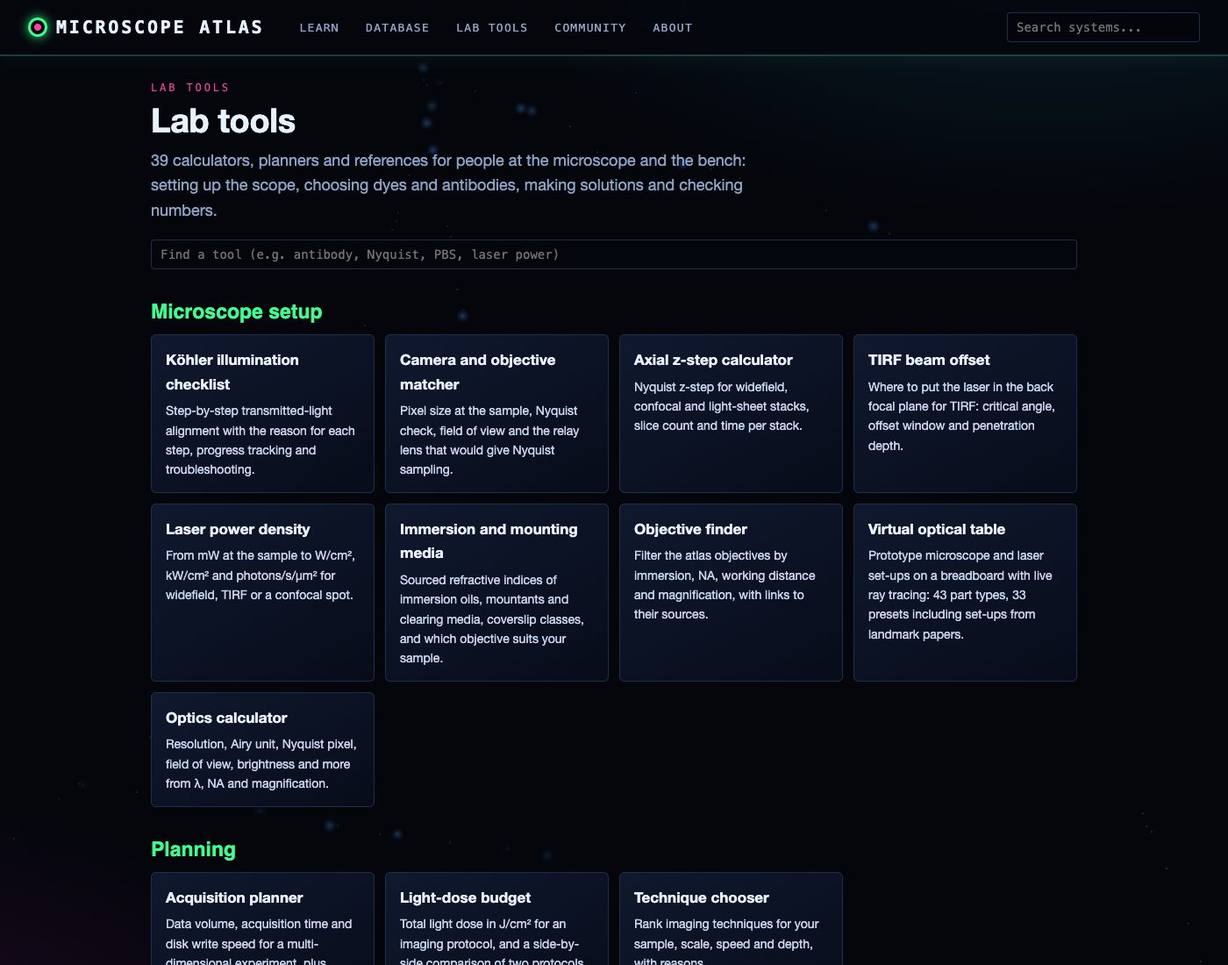
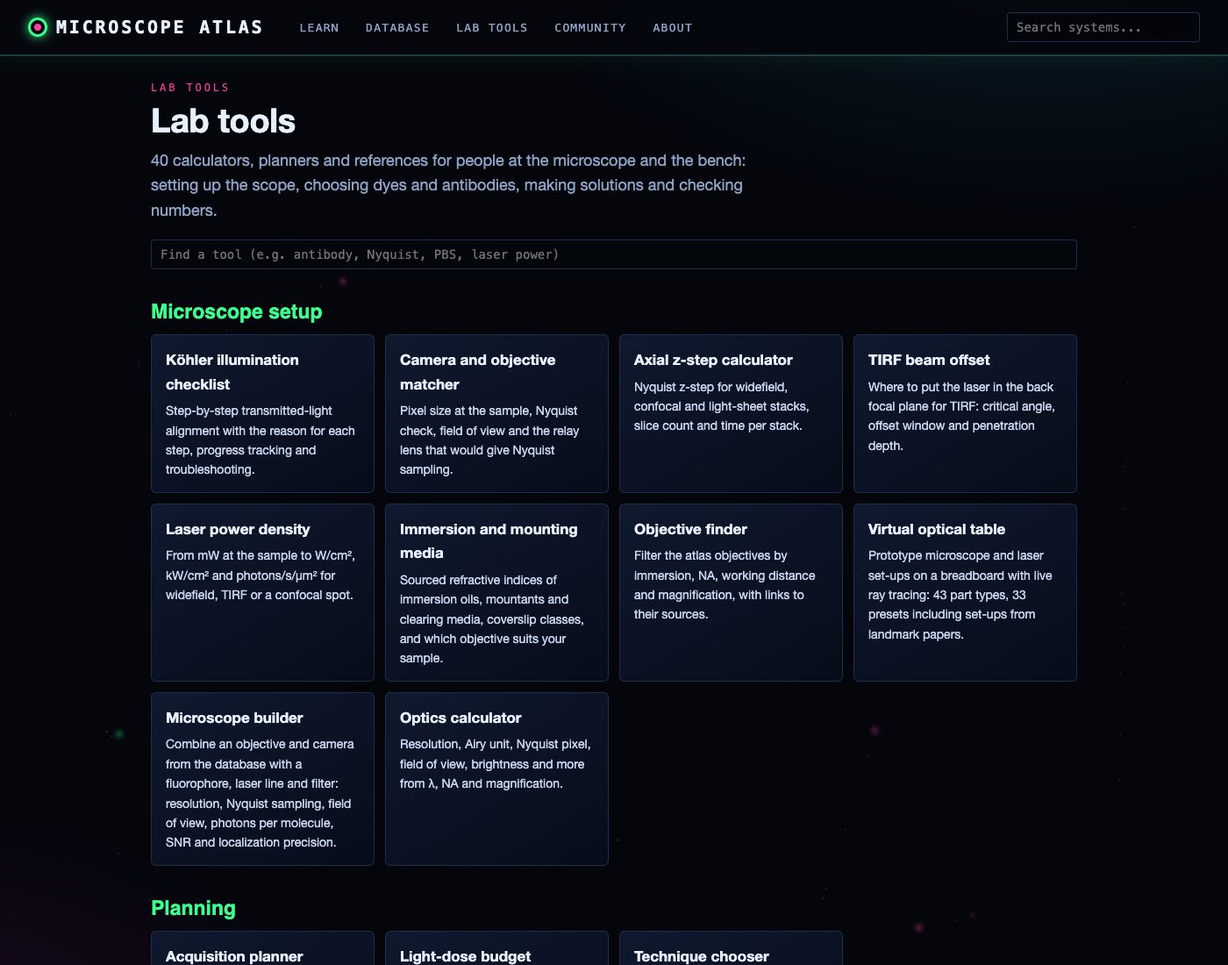
R5: microscope builder with database objectives and cameras, FPbase fluorophores and a tested photon budget

Changed region(s): [[0.1229, 0.7109, 0.7064, 1.0]]

diff --git a/atlas/web/static/builder.js b/atlas/web/static/builder.js
@@ -1,0 +1,91 @@
+// Microscope builder (#/builder): pick an objective and camera from the database, a fluorophore with a measured
+// spectrum, a laser line and an emission band; get resolution, sampling, field of view, photon budget and SNR.
+import { route, app, api, esc } from './core.js';
+import { layout, addSlider, setReadout, linePlot, div, fmt } from './sim_ui.js';
+import { parseObjective, parseCamera, report } from './builder_calc.js';
+
+const LINES = [405, 445, 458, 488, 514, 532, 561, 594, 640, 685, 730];
+const INTRO = 'Choose an objective and a camera from the components database, a fluorophore with a measured spectrum (FPbase), a laser line and an emission band. The builder works out what the combination can do: resolution, pixel size at the sample against Nyquist, field of view, and a photon budget for one molecule in widefield illumination, from laser power to photoelectrons, with the SNR and localization precision that follow.';
+
+route('builder', async () => {
+  app().innerHTML = '<p class="kicker"><a href="#/lab">Lab tools</a></p><h1>Microscope builder</h1><div id="mb"><p class="mute">Loading components…</p></div>';
+  const [objs, cams, spectra] = await Promise.all([api('/components/objectives'), api('/components/detectors'), api('/spectra')]);
+  const O = objs.map(parseObjective).filter(Boolean), C = cams.map(parseCamera).filter(Boolean), names = Object.keys(spectra).sort();
+  const { controls, view, readout } = layout(app().querySelector('#mb'), INTRO);
+  const st = { obj: 'nikon-cfi-apo-tirf-60xc-oil', cam: 'photometrics-prime-bsi-express', extra: 1, fl: names.includes('Alexa Fluor 488') ? 'Alexa Fluor 488' : names[0],
+    laser: 488, power: 10, field: 100, lo: 500, hi: 550, T: 90, exp: 100, bg: 10, qe: 80, read: 1.5, fluor: null };
+  const opt = (rows, cur, lab) => rows.map(r => `<option value="${esc(r.id ?? r)}" ${(r.id ?? r) === cur ? 'selected' : ''}>${esc(lab(r))}</option>`).join('');
+  const pick = div(controls);
+  pick.innerHTML = `<label>Objective</label><select id="mb-obj">${opt(O, st.obj, o => `${o.label} (${o.M}×/${o.NA})`)}</select>
+    <label>Camera</label><select id="mb-cam">${opt(C, st.cam, c => `${c.label} (${c.type})`)}</select>
+    <label>Fluorophore (with a measured spectrum)</label><select id="mb-fl">${opt(names, st.fl, n => n)}</select>
+    <label>Laser line</label><select id="mb-laser">${opt(LINES, st.laser, l => l + ' nm')}</select>`;
+  const sliders = div(controls), assumed = div(controls);
+  controls.appendChild(readout);
+  const plot = div(view), groups = ['Optics', 'Sampling and field of view', 'Photon budget (one molecule)', 'Signal'].map(h => { const d = div(view); d.innerHTML = `<h3>${h}</h3>`; return div(d, 'readout'); });
+  const srcNote = div(view);
+
+  function mountSliders() {
+    sliders.innerHTML = '';
+    const S = (id, label, min, max, step, k, unit = '') => addSlider(sliders, { id, label, min, max, step, value: st[k], unit }, v => { st[k] = v; draw(); });
+    S('mb-x', 'Extra magnification (tube lens / relay)', 0.5, 3, 0.05, 'extra', '×');
+    S('mb-p', 'Laser power at the sample', 0.1, 200, 0.1, 'power', ' mW');
+    S('mb-f', 'Illuminated field diameter', 10, 500, 5, 'field', ' µm');
+    S('mb-lo', 'Emission filter from', 400, 800, 1, 'lo', ' nm');
+    S('mb-hi', 'Emission filter to', 400, 850, 1, 'hi', ' nm');
+    S('mb-t', 'Filter and optics transmission', 10, 100, 1, 'T', '%');
+    S('mb-e', 'Exposure time', 1, 1000, 1, 'exp', ' ms');
+    S('mb-b', 'Background', 0, 500, 1, 'bg', ' photons/pixel/frame');
+  }
+  function mountAssumed(cam) {
+    assumed.innerHTML = '';
+    if (cam.qe === null) addSlider(assumed, { id: 'mb-qe', label: 'QE (not stated in the source: your value)', min: 10, max: 100, step: 1, value: st.qe, unit: '%' }, v => { st.qe = v; draw(); });
+    if (cam.read === null) addSlider(assumed, { id: 'mb-rd', label: 'Read noise (not stated in the source)', min: 0, max: 10, step: 0.1, value: st.read, unit: ' e⁻' }, v => { st.read = v; draw(); });
+  }
+  async function setFluor(name, retune) {
+    st.fl = name;
+    const rows = await api('/fluorophores?q=' + encodeURIComponent(name) + '&limit=50');
+    st.fluor = (Array.isArray(rows) ? rows : rows.rows || []).find(r => r.name === name) || null;
+    if (retune && st.fluor) {
+      st.laser = LINES.filter(l => l <= st.fluor.ex + 5).pop() || LINES[0];
+      st.lo = Math.max(st.laser + 10, Math.round(st.fluor.em - 15)); st.hi = st.lo + 50;
+      pick.querySelector('#mb-laser').value = st.laser; mountSliders();
+    }
+    draw();
+  }
+  pick.querySelector('#mb-obj').onchange = e => { st.obj = e.target.value; draw(); };
+  pick.querySelector('#mb-cam').onchange = e => { st.cam = e.target.value; mountAssumed(C.find(c => c.id === st.cam)); draw(); };
+  pick.querySelector('#mb-fl').onchange = e => setFluor(e.target.value, true);
+  pick.querySelector('#mb-laser').onchange = e => { st.laser = +e.target.value; draw(); };
+
+  function draw() {
+    const obj = O.find(o => o.id === st.obj), cam = C.find(c => c.id === st.cam), sp = spectra[st.fl], f = st.fluor;
+    linePlot(plot, [{ pts: sp.ex || [], color: '#4f9dff', dash: '4 3', label: `${st.fl} excitation` }, { pts: sp.em || [], color: '#3dff8f', label: 'emission' },
+      { pts: [[st.laser, 0], [st.laser, 1.02]], color: '#ffd23f', label: `laser ${st.laser} nm` }, { pts: [[st.lo, 0], [st.lo, 1], [st.hi, 1], [st.hi, 0]], color: '#ff3fa4', dash: '3 3', label: `emission filter ${st.lo}-${st.hi} nm` }],
+      { xlabel: 'wavelength (nm)', ylabel: 'relative', xmin: 350, xmax: 850, ymin: 0, ymax: 1.7, H: 240 }); // headroom keeps the legend clear of the curves
+    if (!f || !f.ec || !f.qy || st.hi <= st.lo) {
+      setReadout(readout, [['Photon budget', !f ? 'loading fluorophore…' : st.hi <= st.lo ? 'filter band is empty' : `${st.fl} has no extinction coefficient or quantum yield in FPbase`]]);
+      return;
+    }
+    const r = report({ obj, cam, extraMag: st.extra, qe: cam.qe === null ? st.qe / 100 : null, read: cam.read === null ? st.read : null,
+      fluor: { ec: f.ec, qy: f.qy, lifetime: f.lifetime }, ex: sp.ex || [], em: sp.em || [], laser: st.laser, powerMw: st.power, fieldUm: st.field,
+      lo: st.lo, hi: st.hi, filterT: st.T / 100, exposureMs: st.exp, bgPx: st.bg });
+    const samp = r.pxS <= r.nyq * 1.05 ? 'Nyquist sampled' : r.pxS <= 2 * r.nyq ? 'slightly undersampled' : 'undersampled: add magnification';
+    setReadout(groups[0], [['Total magnification', `${fmt(r.M)}×`], ['Lateral FWHM 0.51λ/NA', `${r.fwhm.toFixed(0)} nm`], ['Rayleigh 0.61λ/NA', `${r.rayleigh.toFixed(0)} nm`],
+      ['Axial 2nλ/NA²', `${r.axial.toFixed(0)} nm`], ['Immersion', `${obj.immersion} (n = ${obj.n})`]]);
+    setReadout(groups[1], [['Pixel at the sample', `${r.pxS.toFixed(0)} nm`], ['Nyquist pixel λ/(4NA)', `${r.nyq.toFixed(0)} nm: ${samp}`],
+      ['Field of view', `${r.fov[0].toFixed(0)} × ${r.fov[1].toFixed(0)} µm${cam.sizeNote ? ` (${cam.sizeNote})` : ''}`], ['', r.fovNote || 'illumination covers the camera field'],
+      ['Frame rate', `${fmt(r.fpsMax)} fps at this exposure${cam.fps ? ` (camera max ${cam.fps})` : ''}`]]);
+    setReadout(groups[2], [['Power density', `${r.kWcm2 < 0.1 ? (r.kWcm2 * 1000).toFixed(1) + ' W/cm²' : r.kWcm2.toFixed(2) + ' kW/cm²'}`],
+      ['Excitation at the laser line', `${(r.relEx * 100).toFixed(0)}% of peak`], ['Excitations per molecule', `${fmt(r.k)} /s (saturation ${(r.sat * 100).toFixed(2)}%)`],
+      ['Emitted photons', `${fmt(r.emit)} /s (QY ${f.qy})`], ['Collected by the objective', `${(r.coll * 100).toFixed(1)}%`], ['Emission inside the filter', `${(r.inBand * 100).toFixed(0)}%`],
+      ['Camera QE', `${(r.qe * 100).toFixed(0)}%${cam.qe === null ? ' (your value)' : ''}`], ['Photons at the camera per exposure', fmt(r.photons)]]);
+    setReadout(groups[3], [['Brightest pixel', `${fmt(r.peakPx)} photons (${(r.frac * 100).toFixed(0)}% of the spot)`], ['Peak-pixel SNR', fmt(r.snrPeak)],
+      ['Localization precision (Thompson; ×√2 for EMCCD)', `${r.locNm.toFixed(1)} nm`], ['Read noise', `${r.read} e⁻${cam.F > 1 ? ' (EM gain, excess noise √2)' : ''}`]]);
+    setReadout(readout, [['Photons per molecule per frame', fmt(r.photons)], ['Pixel / Nyquist', `${r.pxS.toFixed(0)} / ${r.nyq.toFixed(0)} nm`], ['σ localization', `${r.locNm.toFixed(1)} nm`]]);
+    srcNote.innerHTML = `<p class="small mute">Specs from the database entries for the <a href="#/components/objectives">objective</a> and <a href="#/components/detectors">camera</a>; ε, QY and lifetime from FPbase for ${esc(st.fl)} (ε ${fmt(f.ec)} M⁻¹cm⁻¹, QY ${f.qy}${f.lifetime ? `, τ ${f.lifetime} ns` : ', τ 3 ns assumed'}).
+      Model: flat-top widefield illumination, isotropic emission, σ = 3.82×10⁻²¹ ε cm², two-level saturation, Gaussian PSF; it ignores polarization, blinking, bleaching and optics losses beyond the transmission slider.</p>`;
+  }
+  mountSliders(); mountAssumed(C.find(c => c.id === st.cam));
+  setFluor(st.fl, false);
+});

diff --git a/atlas/web/static/builder_calc.js b/atlas/web/static/builder_calc.js
@@ -1,0 +1,63 @@
+// Microscope builder, pure part: read objective and camera numbers from the database's free-text specs, and compute
+// the full report (resolution, sampling, field of view, photon budget, SNR). Node-tested in tests/builder.test.mjs.
+import { fwhmLateral, rayleigh, axialWidefield, nyquistPixel, cameraSNR, locPrecision, powerDensity, excitationRate, emissionRate,
+  collectionEfficiency, specAt, bandFraction, centralPixelFraction } from './sim_engine.js';
+import { firstNumber, IMMERSIONS, MEDIA } from './lab_setup2.js';
+
+const nOf = name => +((IMMERSIONS.find(i => i[0] === name) || [])[1]);
+
+// Refractive index of the immersion medium named in an objective's spec, or null if the spec does not settle it.
+export function immersionIndex(text) {
+  const t = String(text || '').toLowerCase(), m = t.match(/(?:refractive index|ne\s*=)\s*(1\.\d+)/);
+  if (m) return +m[1];
+  if (t.startsWith('80% glycerol')) return +MEDIA.find(r => r[0] === 'Glycerol / water 80:20')[2];
+  for (const [k, name] of [['silicone', 'Silicone'], ['oil', 'Oil'], ['glycerol', 'Glycerol'], ['water', 'Water']]) if (t.startsWith(k)) return nOf(name);
+  return null;
+}
+
+// Objective entry -> { id, label, M, NA, n } or null when magnification, NA or medium are not given.
+export function parseObjective(o) {
+  const s = o.specs || {}, M = firstNumber(s.Magnification), NA = firstNumber(s.NA), n = immersionIndex(s.Immersion);
+  if (!(M > 0 && NA > 0 && n)) return null;
+  return { id: o.id, label: `${o.manufacturer.split(' (')[0]} ${o.name}`, M, NA, n, immersion: s.Immersion };
+}
+
+// Camera entry -> { id, label, type, px (µm), nx, ny, sizeNote, qe (0..1 or null), read (e⁻), F, fps } or null.
+export function parseCamera(c) {
+  const s = c.specs || {}, px = firstNumber(s['Pixel size']);
+  if (!/CMOS|EMCCD|SPAD array/.test(c.type) || !(px > 0)) return null;
+  const pix = String(s.Pixels || ''), dims = pix.match(/(?<![\d.])(\d[\d,]*)\s*x\s*(\d[\d,]*)(?![\d.,]|\s*mm)/), mm = pix.match(/(\d+(?:\.\d+)?)\s*x\s*(\d+(?:\.\d+)?)\s*mm/);
+  let nx, ny, sizeNote = '';
+  if (dims && !/k\b/i.test(dims[0])) { nx = +dims[1].replace(/,/g, ''); ny = +dims[2].replace(/,/g, ''); }
+  else if (mm) { nx = Math.round(+mm[1] * 1000 / px); ny = Math.round(+mm[2] * 1000 / px); sizeNote = 'from the sensor size'; }
+  else { const mp = firstNumber(pix); if (mp > 0) { nx = ny = Math.round(Math.sqrt(mp * 1e6)); sizeNote = 'square sensor assumed from the megapixel count'; } }
+  const qeText = String(s['Peak QE'] || ''), q = firstNumber(qeText);
+  const rd = String(s['Read noise'] || ''), em = c.type === 'EMCCD';
+  const read = /none|photon counting/i.test(rd) ? 0 : em ? (firstNumber(rd.match(/[^;]*EM gain[^;]*/i)?.[0]) || 1) : firstNumber(rd);
+  return { id: c.id, label: `${c.manufacturer} ${c.name}`, type: c.type, px, nx, ny, sizeNote, qe: q > 0 ? q / 100 : null,
+    read: Number.isFinite(read) ? read : null, F: em ? Math.SQRT2 : 1, fps: firstNumber(s['Max frame rate']) || null };
+}
+
+// Everything the builder reports. cfg: { obj, cam, extraMag, qe, read, fluor {ec, qy, lifetime}, ex, em (spectra),
+// laser (nm), powerMw, fieldUm, lo, hi, filterT, exposureMs, bgPx (background photons per camera pixel per exposure) }
+export function report(cfg) {
+  const { obj, cam, extraMag = 1, fluor, laser, powerMw, fieldUm, lo, hi, filterT = 0.9, exposureMs, bgPx = 0 } = cfg;
+  const lamEm = (lo + hi) / 2, M = obj.M * extraMag, pxS = cam.px * 1000 / M; // nm at the sample
+  const fov = [cam.nx * pxS / 1000, cam.ny * pxS / 1000], fieldMax = fieldUm;
+  const relEx = specAt(cfg.ex, laser), inBand = bandFraction(cfg.em, lo, hi);
+  const k = excitationRate(fluor.ec, relEx, powerMw, Math.PI * (fieldUm * 1e-4 / 2) ** 2, laser);
+  const emit = emissionRate(k, fluor.qy, fluor.lifetime || 3);
+  const coll = collectionEfficiency(obj.NA, obj.n), qe = cfg.qe ?? cam.qe ?? 0.8, read = cfg.read ?? cam.read ?? 1.5;
+  const detRate = emit * coll * inBand * filterT * qe; // photoelectrons per second per molecule
+  const T = exposureMs / 1000, photons = detRate / qe * T; // photons reaching the camera in one exposure
+  const sigmaNm = fwhmLateral(lamEm, obj.NA) / 2.3548, frac = centralPixelFraction(sigmaNm / pxS);
+  return {
+    lamEm, M, pxS, nyq: nyquistPixel(lamEm, obj.NA), fov, fovNote: fov[0] > fieldMax || fov[1] > fieldMax ? 'camera field larger than the illuminated field' : '',
+    fwhm: fwhmLateral(lamEm, obj.NA), rayleigh: rayleigh(lamEm, obj.NA), axial: axialWidefield(lamEm, obj.NA, obj.n),
+    kWcm2: powerDensity(powerMw, fieldUm), relEx, k, sat: k * (fluor.lifetime || 3) * 1e-9, emit, coll, inBand, qe, read,
+    detRate, photons, peakPx: photons * frac, frac, bgPx,
+    snrPeak: cameraSNR(photons * frac, { qe, read, bg: bgPx, F: cam.F }),
+    locNm: locPrecision(sigmaNm, pxS, photons * qe, bgPx * qe, cam.F > 1), // Mortensen's factor 2 for EMCCDs
+    fpsMax: cam.fps ? Math.min(cam.fps, 1000 / exposureMs) : 1000 / exposureMs,
+  };
+}

diff --git a/atlas/web/static/sim_engine_photon.js b/atlas/web/static/sim_engine_photon.js
@@ -1,0 +1,49 @@
+// Photon budget for the microscope builder (re-exported by sim_engine.js): from laser power to detected photons.
+// Units: wavelengths in nm, power in mW, areas in cm², rates per second.
+const H = 6.62607015e-34, C = 2.99792458e8, NA_AV = 6.02214076e23;
+
+// One-photon absorption cross-section from the molar extinction coefficient ε (M⁻¹ cm⁻¹): σ = 1000 ln10 ε / N_A
+// (cm²), about 3.82e-21 ε.
+export const crossSection = ec => 1000 * Math.LN10 * ec / NA_AV;
+
+// Photons per second per cm² for power P (mW) spread over area A (cm²) at wavelength λ.
+export const photonFlux = (PmW, areaCm2, lambda) => (PmW * 1e-3) / (H * C / (lambda * 1e-9)) / areaCm2;
+
+// Power density (kW/cm²) of P mW over a flat-top disc of diameter d µm.
+export const powerDensity = (PmW, dUm) => (PmW * 1e-6) / (Math.PI * (dUm * 1e-4 / 2) ** 2);
+
+// Excitation rate k = σ(λ) × flux; relEx is the excitation spectrum at the laser line (0..1, 1 at the peak).
+export const excitationRate = (ec, relEx, PmW, areaCm2, lambda) => crossSection(ec) * relEx * photonFlux(PmW, areaCm2, lambda);
+
+// Emission rate of a two-level emitter with lifetime τ (ns): QY k / (1 + k τ), saturating at QY / τ.
+export const emissionRate = (k, qy, tauNs) => qy * k / (1 + k * tauNs * 1e-9);
+
+// Fraction of isotropic emission inside the objective's collection cone: (1 − cos θ) / 2 with sin θ = NA / n.
+export const collectionEfficiency = (NA, n) => (1 - Math.cos(Math.asin(Math.min(1, NA / n)))) / 2;
+
+// Linear interpolation in a sampled spectrum [[nm, value], ...] (0 outside it).
+export function specAt(spec, nm) {
+  if (!spec || !spec.length || nm < spec[0][0] || nm > spec[spec.length - 1][0]) return 0;
+  let i = 1; while (spec[i][0] < nm) i++;
+  const [x0, y0] = spec[i - 1], [x1, y1] = spec[i];
+  return x1 === x0 ? y0 : y0 + (y1 - y0) * (nm - x0) / (x1 - x0);
+}
+
+// Fraction of the emission spectrum inside a band-pass filter [lo, hi] nm (trapezoid rule on the samples).
+export function bandFraction(spec, lo, hi) {
+  let tot = 0, inb = 0;
+  for (let i = 1; i < spec.length; i++) {
+    const [x0, y0] = spec[i - 1], [x1, y1] = spec[i], a = (y0 + y1) / 2 * (x1 - x0);
+    tot += a;
+    const l = Math.max(lo, x0), h = Math.min(hi, x1);
+    if (h > l) inb += (specAt(spec, l) + specAt(spec, h)) / 2 * (h - l);
+  }
+  return tot > 0 ? inb / tot : 0;
+}
+
+// Fraction of a Gaussian PSF (σ in pixels) that lands in the pixel it is centred on: erf(1/(2√2 σ))².
+export function centralPixelFraction(sigmaPx) {
+  const x = 1 / (2 * Math.SQRT2 * sigmaPx), t = 1 / (1 + 0.3275911 * x);
+  const erf = 1 - (((((1.061405429 * t - 1.453152027) * t) + 1.421413741) * t - 0.284496736) * t + 0.254829592) * t * Math.exp(-x * x);
+  return erf * erf;
+}

diff --git a/atlas/web/static/lab.js b/atlas/web/static/lab.js
@@ -9,6 +9,7 @@ const loaded = Promise.all(MODULES.map(m => import(m).then(x => x.TOOLS || []).c
 export const ALL = [
   { id: 'table', group: 'Microscope setup', title: 'Virtual optical table', blurb: 'Prototype microscope and laser set-ups on a breadboard with live ray tracing: 43 part types, 33 presets including set-ups from landmark papers.', href: '#/table' },
   { id: 'imagelab', group: 'Analysis', title: 'Image Lab', blurb: 'Load your own image (TIFF, PNG, JPEG) or a test specimen and image it through a simulated microscope: PSF blur, pixel size, photon and read noise, Richardson-Lucy deconvolution and power spectra.', href: '#/imagelab' },
+  { id: 'builder', group: 'Microscope setup', title: 'Microscope builder', blurb: 'Combine an objective and camera from the database with a fluorophore, laser line and filter: resolution, Nyquist sampling, field of view, photons per molecule, SNR and localization precision.', href: '#/builder' },
   { id: 'chooser', group: 'Planning', title: 'Technique chooser', blurb: 'Rank imaging techniques for your sample, scale, speed and depth, with reasons.', href: '#/chooser' },
   { id: 'calc', group: 'Microscope setup', title: 'Optics calculator', blurb: 'Resolution, Airy unit, Nyquist pixel, field of view, brightness and more from λ, NA and magnification.', href: '#/calc' },
   { id: 'spectra', group: 'Labelling and probes', title: 'Spectra viewer', blurb: 'Overlay dye spectra, laser lines and emission bands; see crosstalk as numbers.', href: '#/spectra' },

diff --git a/atlas/web/static/index.html b/atlas/web/static/index.html
@@ -36,6 +36,7 @@
       <a href="#/lab" data-nav="lab">All lab tools</a>
       <a href="#/table" data-nav="table">Virtual optical table</a>
       <a href="#/imagelab" data-nav="imagelab">Image Lab</a>
+      <a href="#/builder" data-nav="builder">Microscope builder</a>
       <a href="#/lab/camera-match">Camera and objective matcher</a>
       <a href="#/lab/tirf-offset">TIRF beam offset</a>
       <a href="#/lab/dilution">Dilution calculator</a>

diff --git a/atlas/web/static/sim_engine.js b/atlas/web/static/sim_engine.js
@@ -448,3 +448,4 @@ export function diskSectioning(z, a, p, NA, n) {
 export const expansionResolution = (d, E, linkage) => Math.sqrt((d / E) ** 2 + linkage ** 2);
 export * from './sim_engine_image.js';
 export * from './sim_engine_loc.js';
+export * from './sim_engine_photon.js';

diff --git a/atlas/web/static/main.js b/atlas/web/static/main.js
@@ -17,6 +17,7 @@ import './quiz.js';
 import './tools.js';
 import './lab.js';
 import './imagelab.js';
+import './builder.js';
 
 route('notfound', () => { app().innerHTML = '<h1>Not found</h1><p><a href="#/">Back to the start</a></p>'; });
 

diff --git a/scripts/screenshots.py b/scripts/screenshots.py
@@ -43,6 +43,7 @@ README = [
     ("history", "history", 1000, None),
     ("quiz", "quiz", 900, None),
     ("lab", "lab", 1100, None),
+    ("builder", "builder", 1150, None),
     ("imagelab", "imagelab", 1050, "await new Promise(r => setTimeout(r, 1500))"),
     ("imagelab_spots", "imagelab", 900, "const s = document.querySelector('#il-src'); s.value = 'smframe'; s.dispatchEvent(new Event('change')); document.querySelector(\".seg button[data-v='4']\").click(); await new Promise(r => setTimeout(r, 1500)); document.querySelector('.il-spots').scrollIntoView()"),
     ("papers", "papers", 1000, None),

diff --git a/ROADMAP.md b/ROADMAP.md
@@ -14,7 +14,7 @@ Rules: sourced data only (see CLAUDE.md); new physics goes in `sim_engine.js` wi
 | R2 | Simulations II: deconvolution (Richardson-Lucy), aberrations and adaptive optics (Zernike modes, Strehl), Köhler illumination, DIC shear, FLIM phasor, FCS autocorrelation, cryo-EM CTF, tomography missing wedge, AFM tip convolution, spinning-disk crosstalk, expansion factor | 10 new sims, each with engine tests | completed 2026-11-10 | 2026-11-09 round 7: FFT/fft2, Zernike pupil PSF + Strehl, Maréchal, Gaussian blur, Richardson-Lucy, FLIM phasor (analytic, from sampled decays, τφ/τm), weak-phase CTF + Scherzer, missing-wedge reconstruction and Radermacher elongation in `sim_engine.js`, tested in `tests/sim_engine2.test.mjs`; 5 new sims (deconv, aberration, phasor, ctf, wedge; 23 total). 2026-11-10 round 8: Abbe/Köhler partial-coherence grating image, DIC interference, FCS trace + autocorrelation, AFM tip dilation, spinning-disk fill-factor model, expansion resolution, tested in `tests/sim_engine3.test.mjs`; 6 more sims (kohler, dic, afm, fcs, disk, expansion): 11 new, 29 total. `sim_engine.js` is at 447 lines: the next physics needs a split (e.g. `sim_engine_wave.js`) |
 | R3 | A dedicated light-path diagram for every technique (was 29 of 51), plus step-through mode tying `light_path` steps to highlighted components | 51 of 51 diagrams | completed | 2026-11-10 round 9: 22 new diagrams (FLIM, FRET, FCS, FRAP, SPT, spectral, Raman, CARS/SRS, SHG, QPI, iSCAT, OCT, photoacoustic, X-ray, CLEM, high-content, slide scanner, intravital, miniscope, adaptive optics, light field, open hardware) in `lightpath_defs2.js`, helpers moved to `lightpath_kit.js`; 52 of 52 techniques have their own diagram, enforced by `tests/lightpath.test.mjs`. Round 10: step-through mode (`lightpath_steps.js`): Prev/Next or a click on a step highlights the parts it names (vocabulary + part-name matching on the main clause); 269 of 336 steps linked, coverage tested |
 | R4 | Image Lab: load your own image; PSF blur, noise, FFT, sampling, deconvolution; localize spots in a single-molecule frame | Works on a test TIFF/PNG; numbers checked against Python | completed | 2026-11-10 round 11: `#/imagelab` page (`imagelab.js`): test specimens or your own TIFF/PNG/JPEG as the object; PSF blur, binning, shot/background/read noise, Richardson-Lucy, power spectra with the 2NA/λ circle, Nyquist/SNR/correlation readouts. Browser TIFF reader `imagelab_io.js` checked against tifffile/numpy (`tests/test_imagelab.py`); image physics in `sim_engine_image.js` (re-exported by `sim_engine.js`, node-tested). Round 12: spot localization (`sim_engine_loc.js`: MAD noise, local-maximum detection, LM 2D Gaussian fit, matching to truth) with a single-molecule-frame specimen at known positions; error follows Thompson (3.6 vs 4.2 nm predicted); fits equal scipy curve_fit to 1e-4 |
-| R5 | Microscope builder: pick objective, camera, lasers and filters from the database; compute resolution, sampling, field of view, expected photons and SNR | Configurator page with tests of the calculations | pending | |
+| R5 | Microscope builder: pick objective, camera, lasers and filters from the database; compute resolution, sampling, field of view, expected photons and SNR | Configurator page with tests of the calculations | completed | 2026-11-10 round 13: `#/builder` (`builder.js`, `builder_calc.js`): objective and camera from the database (specs parsed from their text: 23 objectives, 18 cameras usable; missing QE/read noise asked from the user), fluorophore with FPbase spectrum and ε/QY/τ, laser line, filter band. Reports resolution, Nyquist sampling, field of view, frame rate, photon budget (power density → σε at the line → saturation → QY → collection cone → band fraction → transmission → QE), peak SNR and localization precision. Physics in `sim_engine_photon.js` (re-exported, node-tested against hand values). Lasers and filter sets become database picks when R6 adds them |
 | R6 | Database growth: lasers and light sources, filter sets, more systems (target 450+), licensed instrument photos (Wikimedia Commons, with credits) | Validator passes; licence recorded per image | pending | |
 | R7 | Quiz: flashcards with spaced repetition and generated multiple choice | Page works offline; progress persists | completed 2026-11-09 | Six question generators plus 208 flashcards |
 | R8 | Technique comparison matrix (all techniques vs resolution, depth, speed, live-cell, cost) with sortable view | Matrix page | pending | |
@@ -35,7 +35,7 @@ ledger row, build, test, screenshot smoke test, log, commit, push.
 | 4 | R3 diagrams for every technique | completed |
 | 5 | R2 second half; R8 comparison matrix | R2 half completed 2026-11-10; R8 pending |
 | 6 | R4 Image Lab | completed |
-| 7 | R5 microscope builder | pending |
+| 7 | R5 microscope builder | completed 2026-11-10 |
 | 8 | R7 study mode | pending |
 | 9 | R6 database growth | pending |
 | 10 | R11 polish | pending |

diff --git a/INTERFACE.md b/INTERFACE.md
@@ -53,6 +53,8 @@ JSON by `static_api.js`; Python-only tools show a notice.
 | `lab_label.js`, `lab_label2.js`, `lab_label_calc.js`, `lab_label_data.js` | Labelling and probes: panel-designer, fp-picker, antibody-dilution, secondary-planner, degree-of-labelling, labelling-reaction, protein-absorbance, tags-probes, fixation-guide (pure functions in `_calc`, sourced tables in `_data`) |
 | `lab_bench.js`, `lab_bench2.js`, `lab_bench_calc.js`, `lab_bench_data.js` | Bench calculators: molarity, dilution, serial, units, percent, seeding, hemocytometer, centrifuge, recipes, photons |
 | `lab_analysis.js`, `lab_analysis2.js`, `lab_analysis_calc.js` | Analysis: locprec, fretcalc, snr, frapfit, msdtrack, inspect (server-side, `POST /api/lab/inspect` in `atlas/lab_files.py`) |
+| `sim_engine_photon.js` | Photon-budget physics re-exported by `sim_engine.js`: `crossSection`, `photonFlux`, `powerDensity`, `excitationRate`, `emissionRate` (saturation), `collectionEfficiency`, `specAt`, `bandFraction`, `centralPixelFraction` |
+| `builder.js`, `builder_calc.js` | Microscope builder (`#/builder`): `parseObjective`, `parseCamera`, `immersionIndex` read numbers from database spec text; `report` computes resolution, sampling, field, photon budget, SNR |
 | `sim_engine_loc.js` | Localization physics re-exported by `sim_engine.js`: `robustNoise` (median/MAD), `detectSpots`, `fitGaussian2D` (Levenberg-Marquardt), `localize`, `matchLocalizations` |
 | `imagelab.js`, `imagelab_io.js`, `imagelab_spots.js` | Image Lab page (`#/imagelab`): object from a test specimen, a single-molecule frame with known positions, or the user's file; simulated camera image, Richardson-Lucy, spectra; spot localization panel (`spotPanel`); browser TIFF reader `decodeTiff` (+ `unpackBits`, `fromRGBA`, `fromImageFile`) |
 | `tools.js` | Technique chooser (rule table `P` + `score`), optics calculator |
@@ -73,6 +75,6 @@ JSON by `static_api.js`; Python-only tools show a notice.
 `validate_data.py` (schema check, used by tests) · `build_static.py` (static export) · `build_papers.py` · `check_links.py [--systems]` (reports in docs/) · `fetch_commons.py` (images) · `fetch_fpbase.py` (fluorophores and spectra) · `content/build_content.py` (fundamentals, glossary, portfolio) · `screenshots.py` (Playwright + Chrome: README figures in `docs/img` and a smoke test of every route; needs the server running).
 
 ## tests/
-`test_data.py` (validator, counts, every sim id has code) · `test_api.py` (routes) · `test_lab_files.py` (inspector endpoint) · `test_images.py` (licences, credits, ids, size) · `test_methods_videos.py` (methods coverage, video rows) · `table_engine.test.mjs` (ray-tracer physics and every preset) · `table_imaging.test.mjs` (PSF width, photon conservation, noise statistics, TIRF weighting, binning, modes per preset) · `test_imagelab.py` (TIFF reader, image ops and spot fits vs tifffile/numpy/scipy, via `imagelab_check.mjs`) · `sim_engine_loc.test.mjs` (exact noise-free fits, precision vs Thompson, matching) · `sim_engine_image.test.mjs` (PSF σ, binning, Poisson and read noise, spectra, PackBits) · `lightpath.test.mjs` (every technique has a diagram that renders; step matching and coverage) · `test_js.py` runs every `tests/*.test.mjs` with node (sim engine incl. `sim_engine2/3.test.mjs` for Simulations II, lab setup, labelling, bench).
+`test_data.py` (validator, counts, every sim id has code) · `test_api.py` (routes) · `test_lab_files.py` (inspector endpoint) · `test_images.py` (licences, credits, ids, size) · `test_methods_videos.py` (methods coverage, video rows) · `table_engine.test.mjs` (ray-tracer physics and every preset) · `table_imaging.test.mjs` (PSF width, photon conservation, noise statistics, TIRF weighting, binning, modes per preset) · `test_imagelab.py` (TIFF reader, image ops and spot fits vs tifffile/numpy/scipy, via `imagelab_check.mjs`) · `sim_engine_photon.test.mjs` (cross-section, flux, saturation, collection, band fraction) · `builder.test.mjs` (spec parsing on the real database, report vs hand calculation) · `sim_engine_loc.test.mjs` (exact noise-free fits, precision vs Thompson, matching) · `sim_engine_image.test.mjs` (PSF σ, binning, Poisson and read noise, spectra, PackBits) · `lightpath.test.mjs` (every technique has a diagram that renders; step matching and coverage) · `test_js.py` runs every `tests/*.test.mjs` with node (sim engine incl. `sim_engine2/3.test.mjs` for Simulations II, lab setup, labelling, bench).
 
 Flow: `web/app.py` → `catalog` / `content` / `fluorophores` → `jsonio` → `data/`. Front end: `main.js` → page modules → `core.api` → `/api/...`.

diff --git a/README.md b/README.md
@@ -25,7 +25,7 @@ Microscope Atlas is an open web app for microscopists and lab scientists. It bri
 | **200** freely licensed images of instruments and micrographs, each credited | **298** systems with sourced specs and dated sources |
 
 ## Contents
-- [Techniques](#techniques) · [Simulations](#simulations) · [Virtual optical table](#virtual-optical-table) · [Image Lab](#image-lab) · [Lab tools](#lab-tools) · [Quiz](#quiz)
+- [Techniques](#techniques) · [Simulations](#simulations) · [Virtual optical table](#virtual-optical-table) · [Microscope builder](#microscope-builder) · [Image Lab](#image-lab) · [Lab tools](#lab-tools) · [Quiz](#quiz)
 - [Databases](#databases) · [Community and papers](#community-and-papers)
 - [Static site](#static-site) · [Running the full app](#running-the-full-app) · [How the data were gathered](#how-the-data-were-gathered) · [Project layout](#project-layout)
 
@@ -123,6 +123,18 @@ scale bar, side-by-side ground truth and PNG export.
 | Objective-type TIRF | STED |
 |---|---|
 | ![Optical table: TIRF](docs/img/table_tirf.jpg) | ![Optical table: STED](docs/img/table_sted.jpg) |
+
+## Microscope builder
+Pick an objective and a camera from the components database, one of the 71 fluorophores with measured FPbase spectra,
+a laser line and an emission band. The builder reports resolution (FWHM, Rayleigh, axial), pixel size at the sample
+against Nyquist, field of view and frame rate. It also follows a photon budget for one molecule, in this order:
+power density, absorption cross-section (3.82×10⁻²¹ ε cm²) at the laser line, saturation from the lifetime, quantum
+yield, objective collection angle, fraction of the emission inside the filter, transmission and camera QE. It ends
+with the brightest-pixel SNR and Thompson localization precision. Specs are read from the database's own text; where a
+source gives no QE or read noise, the page asks for the user's value instead of inventing one
+(`tests/builder.test.mjs`).
+
+![Microscope builder](docs/img/builder.jpg)
 
 ## Image Lab
 Load your own image (TIFF, PNG or JPEG; nothing leaves the browser) or one of the test specimens, and image it

diff --git a/SESSION_LOG.md b/SESSION_LOG.md
@@ -171,3 +171,15 @@ Larson and Webb (2002) limit (3.6 nm measured vs 4.2 nm predicted at 100 nm pixe
 (noise-free fits exact, 300 noisy fits give 0.077 px scatter = Thompson 0.077 px) and Python (every fit equals
 scipy curve_fit on the same window to 1e-4; ≥ 90% of molecules within 0.5 px). README figure added. R4 completed;
 next: R5 microscope builder.
+
+## 2026-11-10: Round 13 (hourly), R5 microscope builder completed
+New `#/builder` page (Lab tools nav and hub). Objective and camera come from the components database: `builder_calc.js`
+reads magnification, NA, immersion index (via the sourced immersion table in `lab_setup2.js`), pixel size, sensor
+format, QE, read noise and frame rate from the entries' spec text. That gives 23 usable objectives and 18 cameras;
+those whose medium or format the source leaves open are skipped, and a missing QE or read noise becomes a labelled
+user input. The fluorophore is one of the 71 with FPbase spectra (ε, QY, τ from FPbase), with a laser line and an
+emission band. Reports: FWHM/Rayleigh/axial, pixel vs Nyquist, field of view vs illuminated field, frame rate, power
+density, excitation and emission rates with saturation, collection efficiency, band fraction, photons per exposure,
+peak-pixel SNR, Thompson precision. Physics in the new `sim_engine_photon.js` (re-exported; `tests/sim_engine_photon.test.mjs`);
+parsing and report checked in `tests/builder.test.mjs` (e.g. Alexa 488 on a 60×/1.49 + Prime BSI Express at 10 mW over
+100 µm, 100 ms: ~1,600 photons, 2.9 nm). README section and figure. Next: R6 database growth (lasers, filter sets).
